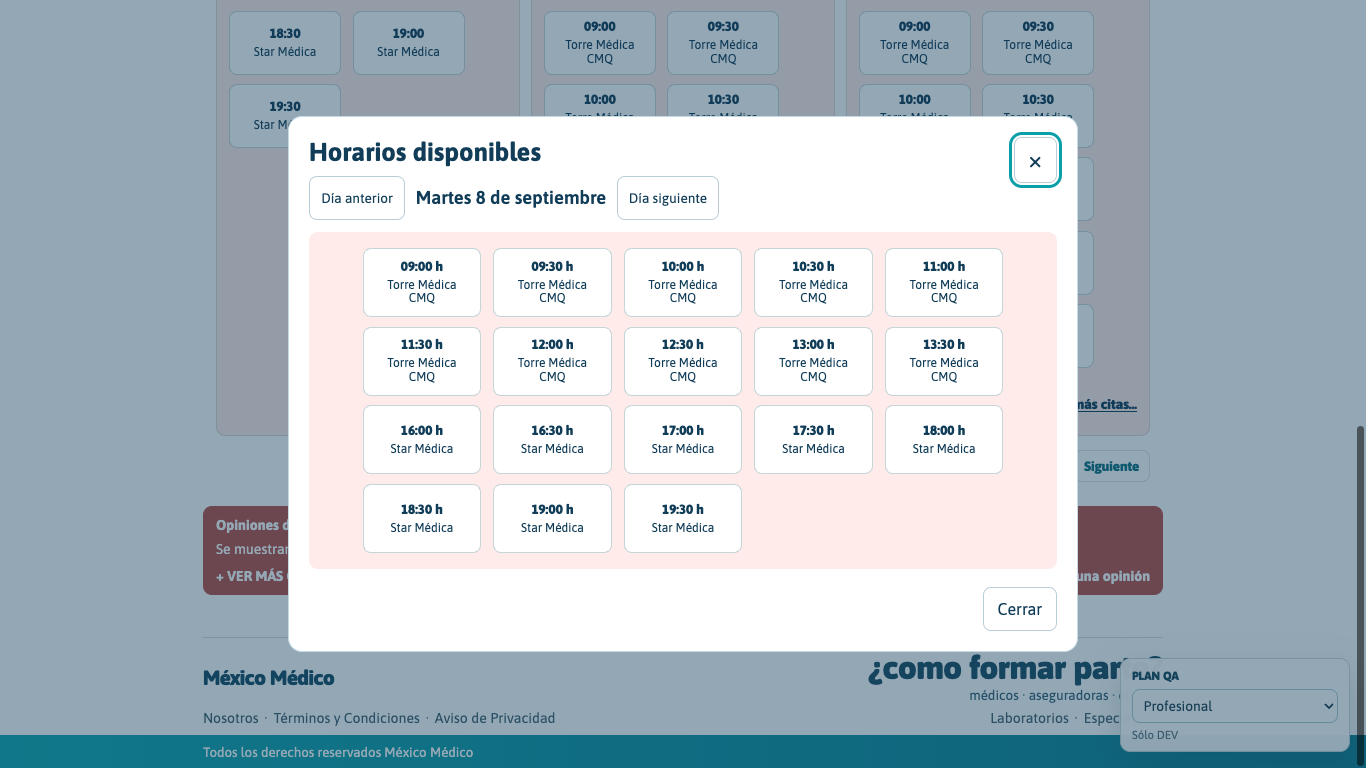
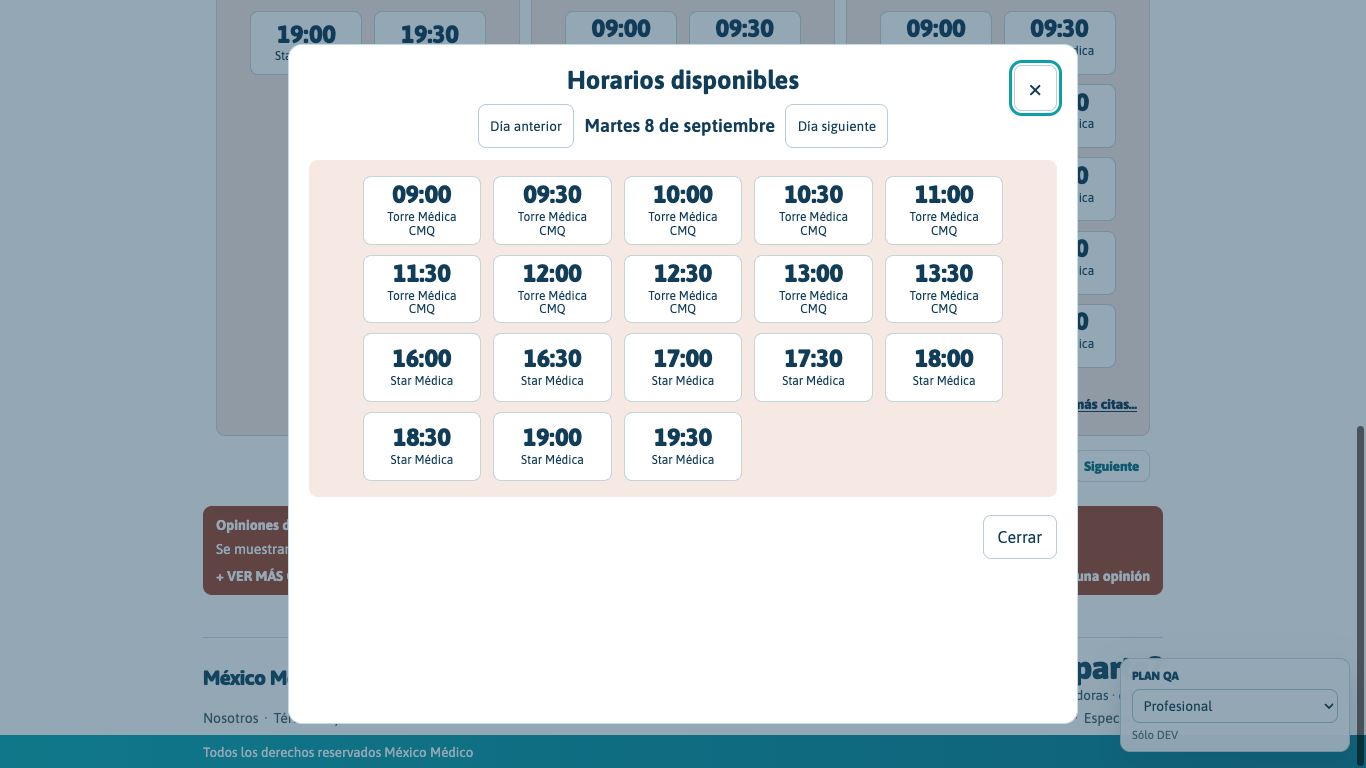
style(public): stabilize daily modal and strengthen time hierarchy

diff --git a/assets/css/public-profile.css b/assets/css/public-profile.css
@@ -1546,6 +1546,7 @@ body:is([data-profile-theme="warm_ivory"], [data-profile-theme="ice_blue"])
   margin-top: 0.72rem;
   display: flex;
   flex-wrap: wrap;
+  justify-content: center;
   column-gap: 0.72rem;
   row-gap: 0.58rem;
 }
@@ -2869,15 +2870,15 @@ button.mxpp-hero-action:focus-visible {
 .mxpp-agenda-compact__slot{flex-direction:column}
 .mxpp-slot-office{display:block;font-size:.75rem;line-height:1.15;font-weight:400;white-space:normal;overflow-wrap:anywhere;max-width:8em;margin:.25rem auto 0}
 .mxpp-day-all{display:block;width:max-content;background:transparent;color:#113d59;border:0;border-radius:0;padding:.38rem 0 .12rem;margin:.74rem 0 0 auto;font:inherit;font-size:.86rem;font-weight:800;line-height:1.2;cursor:pointer;max-width:100%;min-height:44px;text-align:right;text-decoration:underline;text-underline-offset:.16em}
-.mxpp-daily-dialog{box-sizing:border-box;width:min(790px,calc(100% - 24px));max-height:calc(100dvh - 24px);padding:20px;border:1px solid #c5dbe4;border-radius:14px;color:#113d59;background:#fff;overflow-y:auto}
+.mxpp-daily-dialog{box-sizing:border-box;width:min(790px,calc(100% - 24px));height:min(680px,calc(100dvh - 24px));max-height:calc(100dvh - 24px);padding:20px;border:1px solid #c5dbe4;border-radius:14px;color:#113d59;background:#fff;overflow-y:auto}
 .mxpp-daily-dialog::backdrop{background:rgb(17 61 89 / .45)}
-.mxpp-daily-dialog header{display:flex;justify-content:space-between;align-items:flex-start;gap:16px}
-.mxpp-daily-dialog header > div{flex:1;min-width:0}
-.mxpp-daily-dialog h2{margin:0;font-size:1.6rem}
+.mxpp-daily-dialog header{position:relative;display:block}
+.mxpp-daily-dialog header > div{min-width:0}
+.mxpp-daily-dialog h2{margin:0;padding:0 3rem;text-align:center;font-size:1.6rem}
 .mxpp-daily-dialog header p{margin:0;text-align:center}
 .mxpp-daily-dialog button{font:inherit;cursor:pointer;min-height:44px;border:1px solid #b9cdd8;border-radius:8px;background:#fff;color:#113d59;padding:10px 14px}
-.mxpp-daily-dialog [data-daily-close][aria-label]{font-size:1.5rem;line-height:1;flex-shrink:0}
-.mxpp-daily-results{display:grid;grid-template-columns:repeat(auto-fit,7.4rem);justify-content:center;gap:.62rem .76rem;padding:1rem;background:var(--profile-accent-soft);border-radius:9px}
+.mxpp-daily-dialog [data-daily-close][aria-label]{position:absolute;top:0;right:0;font-size:1.5rem;line-height:1}
+.mxpp-daily-results{display:grid;grid-template-columns:repeat(auto-fit,7.4rem);justify-content:center;justify-items:center;align-content:start;gap:.62rem .76rem;padding:1rem;background:var(--profile-accent-soft);border-radius:9px}
 .mxpp-daily-dialog .mxpp-daily-slot{display:flex;flex-direction:column;gap:4px;text-align:center;overflow-wrap:anywhere}
 .mxpp-daily-slot strong{font-size:1.2rem}
 .mxpp-daily-slot span{font-size:.9rem}
@@ -2938,10 +2939,19 @@ button.mxpp-hero-action:focus-visible {
   line-height: 1.15;
 }
 .mxpp-daily-dialog #mxpp-daily-date { font-size: 1.15rem; font-weight: 600; }
-.mxpp-daily-dialog__date-nav { display: flex; align-items: center; gap: .65rem; margin-top: .62rem; }
+.mxpp-daily-dialog__date-nav { display: flex; align-items: center; justify-content: center; gap: .65rem; margin-top: .62rem; }
 .mxpp-daily-dialog__date-nav button { font-size: .85rem; padding: .48rem .7rem; }
 .mxpp-daily-dialog [data-daily-status]:empty { display: none; }
 .mxpp-daily-results { margin-top: .75rem; }
+.mxpp-slot-time,
+.mxpp-daily-slot strong {
+  display: block;
+  color: inherit;
+  font-size: 1.55rem;
+  font-weight: 800;
+  line-height: 1;
+  white-space: nowrap;
+}
 @media(max-width:720px){
   .mxpp-agenda-compact__day h3{font-size:1.28rem}
   .mxpp-agenda-compact__slots{column-gap:.5rem}

diff --git a/assets/js/public-profile-daily.js b/assets/js/public-profile-daily.js
@@ -45,7 +45,7 @@ window.MxmedPublicDailyModal = function (block, booking) {
         const button = document.createElement('button'); button.type = 'button';
         button.className = 'mxpp-daily-slot';
         button.title = slot.consultorio_name;
-        const time = document.createElement('strong'); time.textContent = booking.formatTime(slot.start_at) + ' h';
+        const time = document.createElement('strong'); time.textContent = booking.formatTime(slot.start_at);
         const office = document.createElement('span'); office.textContent = slot.consultorio_name;
         button.append(time, office);
         button.addEventListener('click', () => {

diff --git a/profiles/doctor.php b/profiles/doctor.php
@@ -1980,7 +1980,7 @@ if (isLocalDevRequest()) {
                 + ' data-slot-end="' + escapeHtml(endAt) + '"'
                 + ' data-slot-office="' + escapeHtml(String(slot.consultorio_id || getConsultorioIdFromBlock(currentBlock))) + '"'
                 + ' title="' + escapeHtml(slot.consultorio_name || '') + '">'
-                + escapeHtml(formatTime(startAt))
+                + '<strong class="mxpp-slot-time">' + escapeHtml(formatTime(startAt)) + '</strong>'
                 + (slot.consultorio_name ? '<small class="mxpp-slot-office">' + escapeHtml(slot.consultorio_name) + '</small>' : '')
                 + '</button>';
             }).join('');

diff --git a/docs/qa/public-daily-final-polish/README.md b/docs/qa/public-daily-final-polish/README.md
@@ -1,8 +1,8 @@
-# Public daily agenda final polish QA
+# Public daily agenda final stability and time hierarchy QA
 
-Task: MXMED public daily agenda final visual polish.
+Task: MXMED public daily agenda final stability, centering and time hierarchy polish.
 
-Pre-head: `66034742802f0222911f40e4fe78397acc587e2c`
+Pre-head: `b9649636997c65a924c510998f66802a284f425b`
 
 Scope validated:
 
@@ -19,13 +19,11 @@ Checks run:
 
 QA result:
 
-- Date headings enlarged and responsive.
-- Preview chip content centered.
-- Preview chip column and row spacing increased.
-- Preview action changed to text-style `Ver mas citas...`, right aligned and unboxed.
-- Full-day modal title remains `Horarios disponibles`.
-- Modal date and day navigation are grouped on the same row for desktop; on 320/390 mobile the date remains grouped above the paired day controls.
-- Modal chips are centered, roomier, and preserve the same visual family as preview chips.
+- Preview and modal times are visual first-level elements at 1.55rem, with the visible `h` suffix removed.
+- Preview chip grid, chip text and consultorio label are centered.
+- Full-day modal title remains `Horarios disponibles` and is centered with the date/day navigation group.
+- Full-day modal has a fixed 680px maximum-viewport-aware height. A day with 18 slots and a day with 2 slots open at the identical position and dimensions; the sparse view retains lower empty space.
+- Modal chips are centered, preserve the same visual family as preview chips, and do not clip time or consultorio labels.
 - Selecting a preview or modal slot still opens booking with the exact consultorio and internal start/end slot context.
 - Four viewports passed: 1440x900, 1366x768, 390x844, 320x740.
 
@@ -33,6 +31,7 @@ Evidence:
 
 - `desktop-1440-preview.png`
 - `desktop-1440-modal.png`
+- `desktop-1440-few-modal.png`
 - `desktop-1366-preview.png`
 - `desktop-1366-modal.png`
 - `mobile-390-preview.png`
